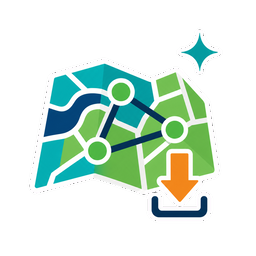
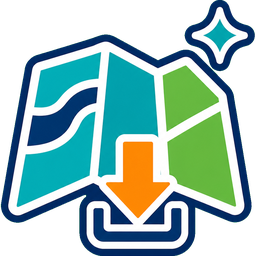
Release v0.5.1
Polish 02Agent interface and icon

diff --git a/dialogs/dock.py b/dialogs/dock.py
@@ -179,17 +179,42 @@ class AgentOsmDock(QDockWidget):
         hero.setObjectName("heroPanel")
         hero_layout = QVBoxLayout(hero)
         hero_layout.setContentsMargins(12, 7, 12, 7)
-        hero_layout.setSpacing(0)
+        hero_layout.setSpacing(4)
+
+        hero_top = QHBoxLayout()
+        hero_top.setSpacing(9)
+        hero_mark = QLabel("02")
+        hero_mark.setObjectName("heroMark")
+        hero_mark.setAlignment(Qt.AlignmentFlag.AlignCenter)
+        hero_mark.setFixedSize(37, 37)
+        hero_top.addWidget(hero_mark)
+
+        hero_copy = QVBoxLayout()
+        hero_copy.setContentsMargins(0, 0, 0, 0)
+        hero_copy.setSpacing(0)
         eyebrow = QLabel("OPENSTREETMAP ACQUISITION")
         eyebrow.setObjectName("heroEyebrow")
         title = QLabel("02Agent")
         title.setObjectName("heroTitle")
-        subtitle = QLabel("Bounded downloads for QGIS workflows")
+        subtitle = QLabel("Bounded OSM downloads for QGIS workflows")
         subtitle.setObjectName("mutedText")
         subtitle.setWordWrap(True)
-        hero_layout.addWidget(eyebrow)
-        hero_layout.addWidget(title)
-        hero_layout.addWidget(subtitle)
+        hero_copy.addWidget(eyebrow)
+        hero_copy.addWidget(title)
+        hero_copy.addWidget(subtitle)
+        hero_top.addLayout(hero_copy, 1)
+
+        hero_badge = QLabel("OSM\nREADY")
+        hero_badge.setObjectName("heroBadge")
+        hero_badge.setAlignment(Qt.AlignmentFlag.AlignCenter)
+        hero_badge.setToolTip("OpenStreetMap acquisition tools")
+        hero_top.addWidget(hero_badge)
+        hero_layout.addLayout(hero_top)
+
+        workflow_hint = QLabel("Choose a workflow, review the request, then download.")
+        workflow_hint.setObjectName("heroHint")
+        workflow_hint.setWordWrap(True)
+        hero_layout.addWidget(workflow_hint)
         layout.addWidget(hero)
 
         self.tabs = QTabWidget()
@@ -345,6 +370,20 @@ class AgentOsmDock(QDockWidget):
             "Select one or more datasets from this theme. They run as one bounded request."
         )
         self.dataset_list.itemChanged.connect(self._dataset_changed)
+        dataset_actions = QHBoxLayout()
+        dataset_actions.setSpacing(5)
+        self.dataset_count = QLabel("0 selected")
+        self.dataset_count.setObjectName("countPill")
+        select_all = QPushButton("Select all")
+        select_all.setObjectName("quietButton")
+        select_all.clicked.connect(self._select_all_datasets)
+        clear_datasets = QPushButton("Clear")
+        clear_datasets.setObjectName("quietButton")
+        clear_datasets.clicked.connect(self._clear_datasets)
+        dataset_actions.addWidget(self.dataset_count)
+        dataset_actions.addStretch(1)
+        dataset_actions.addWidget(select_all)
+        dataset_actions.addWidget(clear_datasets)
         self.theme_context = QLabel()
         self.theme_context.setObjectName("mutedText")
         self.theme_context.setWordWrap(True)
@@ -353,8 +392,10 @@ class AgentOsmDock(QDockWidget):
         self.description.setObjectName("descriptionText")
         self.description.setWordWrap(True)
         self.description.setMinimumHeight(42)
+        self.description.setMaximumHeight(64)
         preset_form.addRow("Theme", self.group_combo)
         preset_form.addRow("Dataset (multi-select)", self.dataset_list)
+        preset_form.addRow(dataset_actions)
         preset_form.addRow(self.theme_context)
         preset_form.addRow(self.description)
         outer.addWidget(preset_group)
@@ -539,19 +580,23 @@ class AgentOsmDock(QDockWidget):
         command_examples = QHBoxLayout()
         self.command_example_combo = QComboBox()
         for example in (
-            "Download parks in London",
-            "Download buildings in Izmir Konak",
-            "Download public transport in Van",
-            "Download public transport in Tokyo",
-            "Download buildings in New York City",
-            "Download roads and buildings in Paris",
-            "Download healthcare in Toronto",
-            "Download parks in Nairobi",
-            "Download schools in Melbourne",
-            "Download cycle network in Copenhagen",
+            "Download administrative places in Konak, Izmir, Turkey",
+            "Download administrative places in Van, Turkey",
+            "Download buildings in London, United Kingdom",
+            "Download roads and buildings in Paris, France",
+            "Download public transport in Tokyo, Japan",
+            "Download parks in Nairobi, Kenya",
+            "Download healthcare in Toronto, Canada",
+            "Download schools in Melbourne, Australia",
+            "Download cycle network in Copenhagen, Denmark",
+            "Download green and blue infrastructure in Amsterdam, Netherlands",
+            "Download buildings in New York City, United States",
+            "Download administrative places in São Paulo, Brazil",
+            "Download public transport in Singapore",
+            "Download roads in Cape Town, South Africa",
             "building=* polygon",
             "Download wheelchair=yes points",
-            "Download green and blue infrastructure",
+            "Download parks and playgrounds in Seoul, South Korea",
         ):
             self.command_example_combo.addItem(example)
         load_command = QPushButton("Load example")
@@ -669,6 +714,24 @@ class AgentOsmDock(QDockWidget):
         self.dataset_list.blockSignals(False)
         self._dataset_changed()
 
+    def _select_all_datasets(self) -> None:
+        self.dataset_list.blockSignals(True)
+        for index in range(self.dataset_list.count()):
+            self.dataset_list.item(index).setCheckState(
+                Qt.CheckState.Checked
+            )
+        self.dataset_list.blockSignals(False)
+        self._dataset_changed()
+
+    def _clear_datasets(self) -> None:
+        self.dataset_list.blockSignals(True)
+        for index in range(self.dataset_list.count()):
+            self.dataset_list.item(index).setCheckState(
+                Qt.CheckState.Unchecked
+            )
+        self.dataset_list.blockSignals(False)
+        self._dataset_changed()
+
     def _selected_preset_ids(self) -> tuple[str, ...]:
         return tuple(
             str(self.dataset_list.item(index).data(Qt.ItemDataRole.UserRole) or "")
@@ -678,13 +741,19 @@ class AgentOsmDock(QDockWidget):
 
     def _dataset_changed(self, *_args) -> None:
         preset_ids = self._selected_preset_ids()
+        self.dataset_count.setText(
+            f"{len(preset_ids)} of {self.dataset_list.count()} selected"
+        )
         if not preset_ids:
-            self.description.clear()
+            self.description.setText(
+                "Select one or more datasets to build a combined request."
+            )
             self._refresh_run_summary()
             return
-        self.description.setText(
-            " ".join(get_preset(preset_id).description for preset_id in preset_ids)
-        )
+        descriptions = [
+            get_preset(preset_id).description for preset_id in preset_ids
+        ]
+        self.description.setText(" ".join(descriptions))
         self._refresh_run_summary()
 
     def _select_preset(self, preset_id: str) -> None:

diff --git a/dialogs/theme.py b/dialogs/theme.py
@@ -126,6 +126,14 @@ QFrame#heroPanel {
     border: 1px solid %(border)s;
     border-radius: 9px;
 }
+QLabel#heroMark {
+    background: %(accent)s;
+    color: %(accent_text)s;
+    border: 1px solid %(accent)s;
+    border-radius: 10px;
+    font-size: 12pt;
+    font-weight: 800;
+}
 QLabel#heroEyebrow {
     color: %(accent)s;
     font-size: 8pt;
@@ -133,11 +141,32 @@ QLabel#heroEyebrow {
 }
 QLabel#heroTitle {
     color: %(text)s;
-    font-size: 15pt;
-    font-weight: 650;
+    font-size: 16pt;
+    font-weight: 700;
+}
+QLabel#heroBadge {
+    color: %(accent)s;
+    background: %(status)s;
+    border: 1px solid %(accent)s;
+    border-radius: 8px;
+    padding: 3px 7px;
+    font-size: 7pt;
+    font-weight: 750;
+}
+QLabel#heroHint {
+    color: %(subtle)s;
+    padding-left: 46px;
 }
 QLabel#mutedText, QLabel#descriptionText, QLabel#connectionDetail {
     color: %(subtle)s;
+}
+QLabel#countPill {
+    color: %(accent)s;
+    background: %(status)s;
+    border: 1px solid %(border)s;
+    border-radius: 8px;
+    padding: 3px 7px;
+    font-weight: 650;
 }
 QLabel#endpointPill {
     color: %(accent)s;
@@ -195,12 +224,34 @@ QLineEdit, QPlainTextEdit, QComboBox {
 QLineEdit:focus, QPlainTextEdit:focus, QComboBox:focus {
     border: 2px solid %(accent)s;
 }
+QListWidget#datasetList {
+    background: %(input_surface)s;
+    color: %(input_text)s;
+    border: 1px solid %(border)s;
+    border-radius: 6px;
+    padding: 3px;
+}
+QListWidget#datasetList::item {
+    padding: 5px 4px;
+    border-radius: 4px;
+}
+QListWidget#datasetList::item:hover {
+    background: %(tab_active)s;
+}
+QListWidget#datasetList::item:selected {
+    background: %(selection)s;
+    color: %(accent_text)s;
+}
+QCheckBox {
+    spacing: 6px;
+}
 QPushButton {
     background: %(button)s;
     color: %(button_text)s;
     border: 1px solid %(border)s;
     border-radius: 6px;
     padding: 7px 11px;
+    min-height: 17px;
 }
 QPushButton:hover { border-color: %(accent)s; color: %(accent)s; }
 QPushButton:focus { border: 2px solid %(accent)s; }

diff --git a/main_plugin.py b/main_plugin.py
@@ -111,6 +111,6 @@ class AgentOsmDownloaderPlugin:
                 "<p>SmartModeler GIS discovers these endpoints through the live "
                 "QGIS Processing registry, validates their signatures, and runs "
                 "them only after an explicit approval card.</p>"
-                "<p>GPL-3.0-or-later · Yusuf Eminoğlu</p>"
+                "<p>GPL-3.0-or-later &bull; Yusuf Eminoglu</p>"
             ),
         )

diff --git a/CHANGELOG.md b/CHANGELOG.md
@@ -1,5 +1,12 @@
 # Changelog
 
+## [0.5.1] - 2026-08-09
+
+- Refine the dock hierarchy with a clearer OSM header, status badge and workflow guidance.
+- Add dataset selection actions and a live selection counter for multi-dataset downloads.
+- Expand global Command examples with more explicit administrative place names.
+- Refresh the toolbar icon for stronger small-size readability and fix the About dialog copy.
+
 ## [0.5.0] - 2026-08-09
 
 - Add an English **Add OSM basemap** action with duplicate protection and
